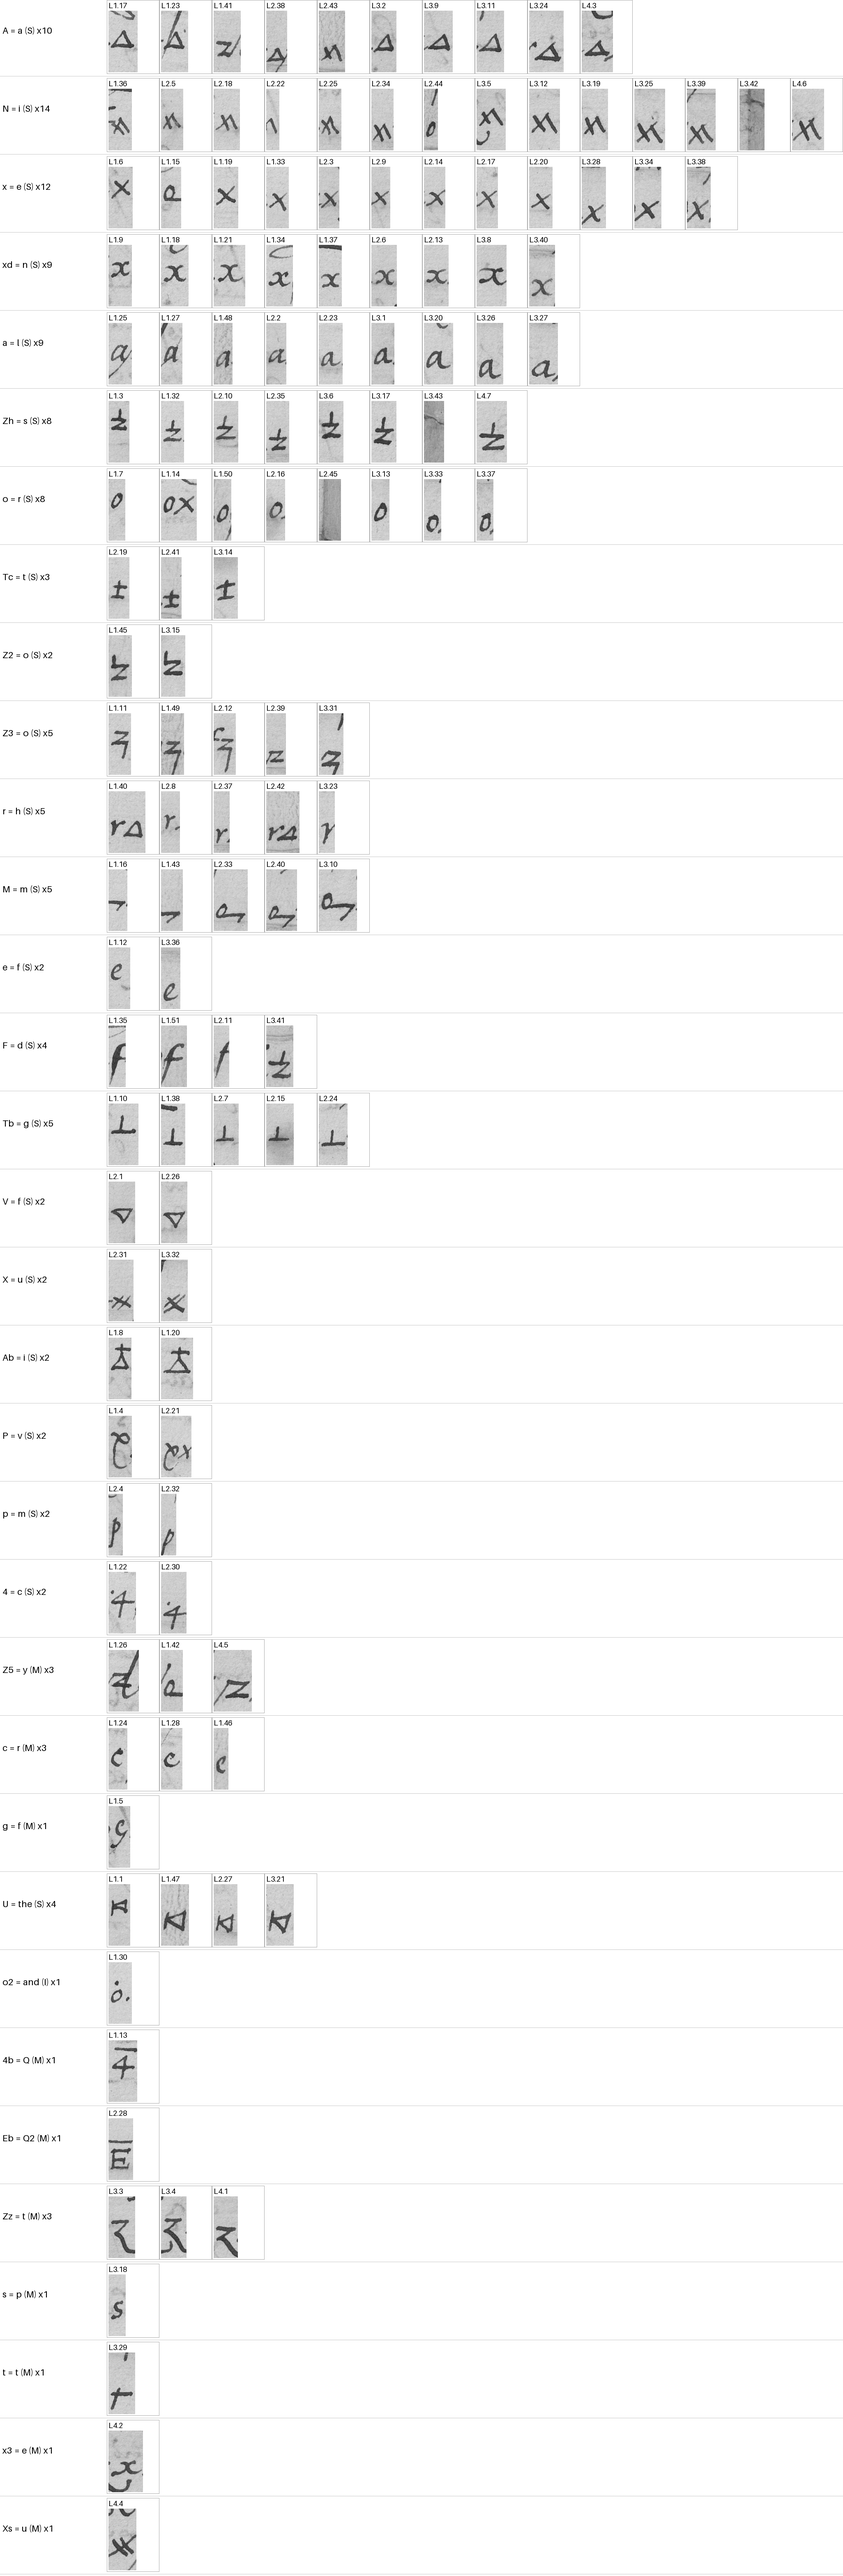
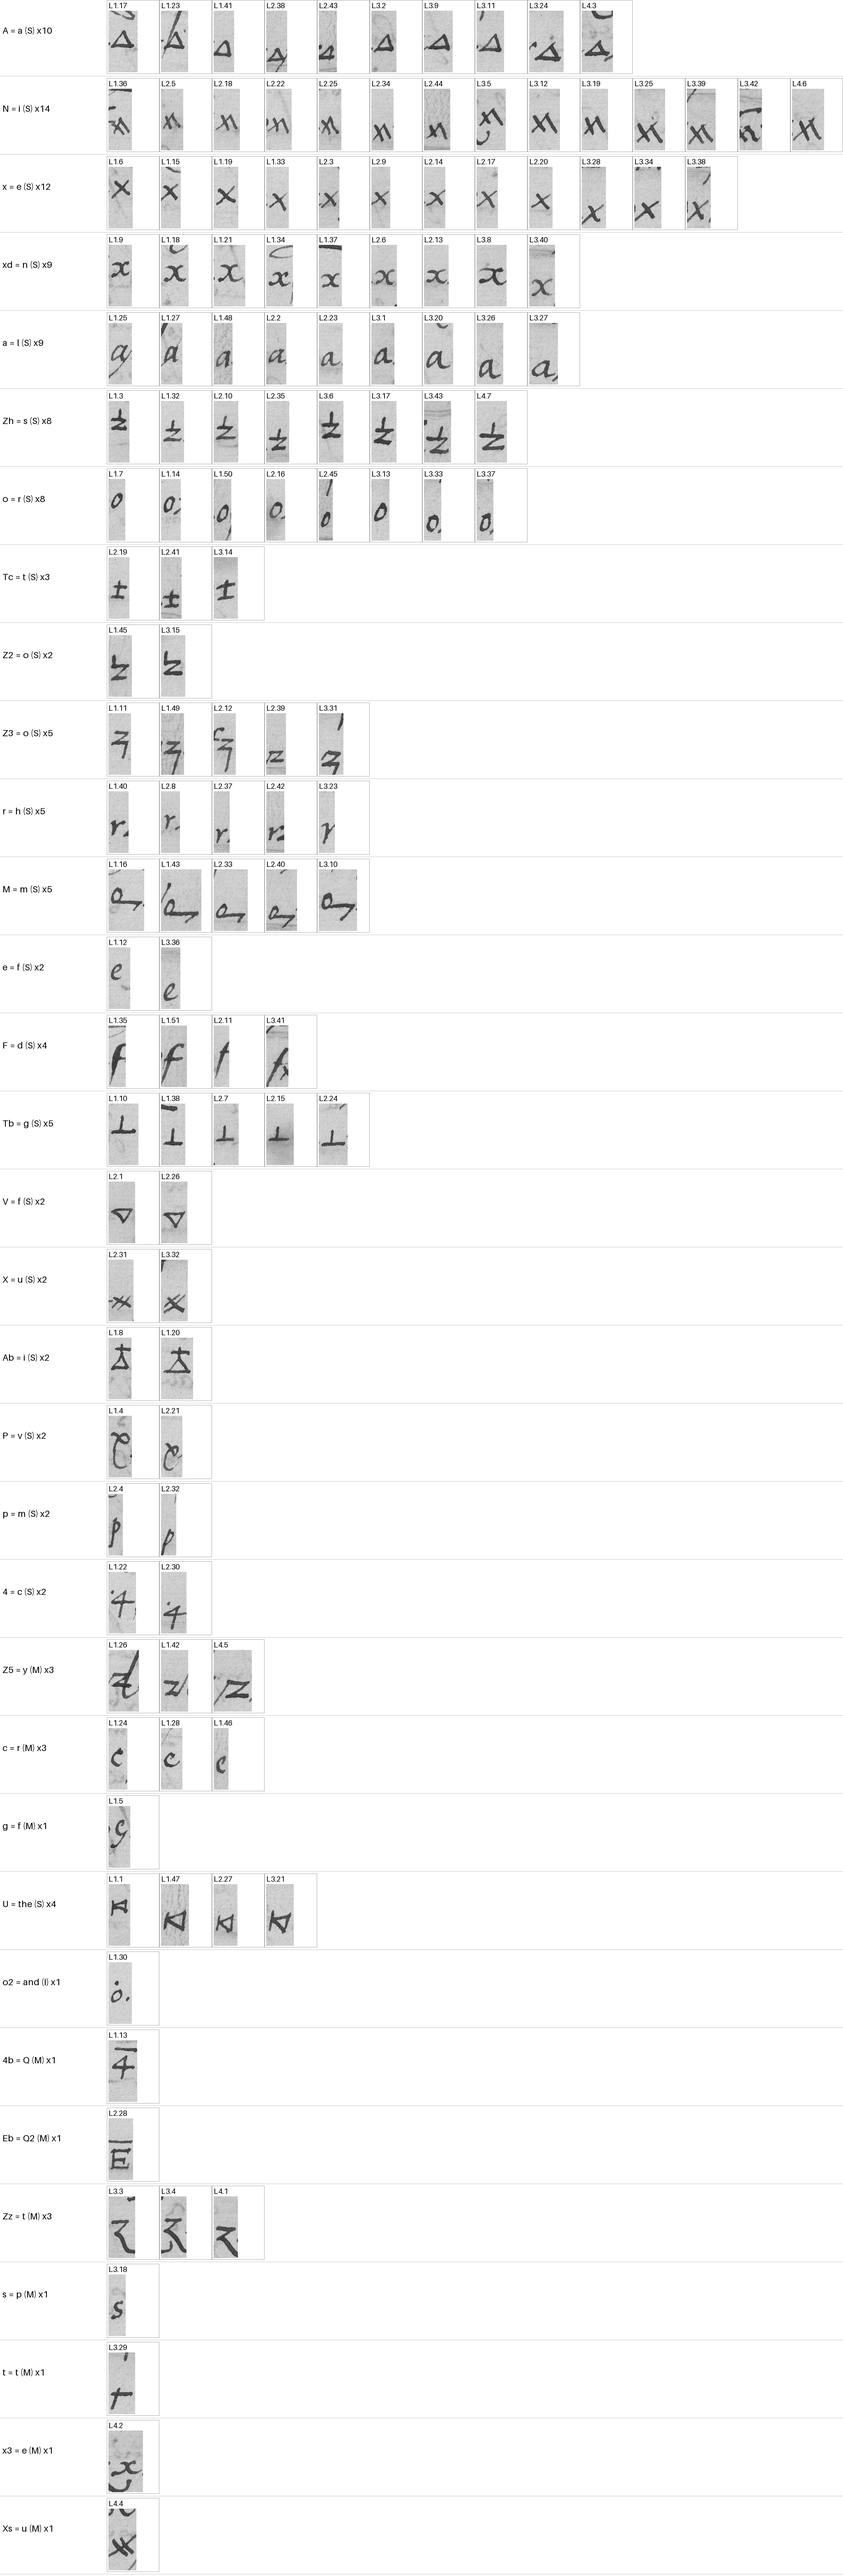
moray-wood-1568: RUN4-MOR refsheet eye anchors (--eye, --m-left), 0/11 flagged boxes misplaced (was 11/102)
Claude-Session: https://claude.ai/code/session_01L8GHwis3zYrxBn48NdJzYo

diff --git a/ciphers/moray-wood-1568/no804/refsheet/align_boxes.py b/ciphers/moray-wood-1568/no804/refsheet/align_boxes.py
@@ -7,7 +7,13 @@ Validated against the 32 position->segment pairs GAPS5 fixed by eye against its 
 (images/pairs_sheets_2026-10-02.py, which numbers glyphs per line without the '|' rows); the agreement count is printed and written to the output header.
 The anchors are hard constraints by default (penalty 5.0 per miss); --free runs without them and is the validation
 figure (26/32 on 4 Oct 2026: the free DP drifts by one or two segments late in L1 and L3, where GAPS5 found merged cuts).
-usage: python3 align_boxes.py [--free] > boxes.tsv"""
+--eye (RUN4-MOR, 4 Oct 2026) adds the eye anchors read on the full-size P4 (sha1 a4e84895...) at the line ends and at the
+boxes RUN3-MOR flagged (no804/refsheet/eyecheck.tsv); they override GAPS5's where both exist (two cases, both boxes RUN3-MOR
+flagged wrong/clipped: GAPS5 'L1.14' 14 -- seg 13 is o+x merged, seg 14 the loop of M; GAPS5 'L1.38' (40,'L') -- seg 38 is r+A
+merged, seg 39 the slashed z (Z5), seg 40 the whole M), and two eye-set boxes replace the DP box
+where the GAPS5 segmentation cut a glyph in two (L2.21 P / L2.22 N). L3 segments 39-44 are fold shadow and stay unmatched.
+--m-left PX (default 0) widens every M box leftward by PX, for the loop of M when it sits in the preceding segment.
+usage: python3 align_boxes.py [--free] [--eye] [--m-left PX] > boxes.tsv"""
 import json, statistics, os
 D = os.path.join(os.path.dirname(os.path.abspath(__file__)), '..', '..')
 G = json.load(open(f'{D}/images/pairs_glyph_boxes_2026-10-02.json'))
@@ -17,9 +23,17 @@ ANCH = {'L1.5': 5, 'L1.8': 8, 'L1.10': 10, 'L1.11': 11, 'L1.14': 14, 'L1.17': 17
         'L1.25': 25, 'L1.27': 27, 'L1.30': 32, 'L1.31': 33, 'L1.34': 36, 'L1.38': (40, 'L'), 'L1.40': 41, 'L1.41': 42,
         'L1.44': 45, 'L2.30': 29, 'L3.3': 3, 'L3.4': 4, 'L3.7': 7, 'L3.14': 15, 'L3.25': 26, 'L3.27': 28, 'L3.28': 29,
         'L3.30': 31, 'L3.31': 32, 'L3.33': 34, 'L3.35': 36, 'L4.1': 1, 'L4.4': 4}
+# RUN4-MOR eye anchors (glyph numbering as ANCH), read on the full-size P4 image 4 Oct 2026
+EYE = {'L1.13': (13, 'L'), 'L1.14': (13, 'R'), 'L1.15': 14, 'L1.36': (38, 'L'), 'L1.37': (38, 'R'), 'L1.38': 39, 'L1.39': 40,
+       'L2.38': 37, 'L2.39': 38, 'L2.40': (39, 'L'), 'L2.41': (39, 'R'), 'L2.42': 40, 'L2.43': 41,
+       'L3.36': (37, 'L'), 'L3.37': (37, 'R'), 'L3.38': 38}
+EYEBOX = {'L2.21': (3212, 3278), 'L2.22': (3268, 3350)}  # x0, x1 on P4; y from the line band
 INF = 1e9
 import sys
 HARD = '--free' not in sys.argv
+GAPS5 = dict(ANCH)
+if '--eye' in sys.argv: ANCH = {**ANCH, **EYE}
+MLEFT = int(sys.argv[sys.argv.index('--m-left') + 1]) if '--m-left' in sys.argv else 0
 def align(L, gidx):
     toks = [(r[1], r[2]) for r in rows if r[0] == L]
     segs = G[L]['glyphs']; n, m = len(toks), len(segs)
@@ -67,14 +81,17 @@ for L in ['L1', 'L2', 'L3', 'L4']:
     for r in rows:  # GAPS5 numbers glyphs per line ignoring '|' rows; ciphertext.tsv's pos counts them
         if r[0] == L and r[2] != '|': g += 1; gidx[f'{L}.{r[1]}'] = f'{L}.{g}'
     for (pos, sign), sg, box, k in align(L, gidx):
+        if '--eye' in sys.argv and gidx[f'{L}.{pos}'] in EYEBOX: box = [EYEBOX[gidx[f'{L}.{pos}']][0], box[1], EYEBOX[gidx[f'{L}.{pos}']][1], box[3]]; k = 'eye'
+        if sign == 'M' and MLEFT: box = [box[0] - MLEFT] + list(box[1:])
         res.append((f'{L}.{pos}', sign, sg, box, k))
 ok = tot = 0; bad = []
 for p, s, sg, box, k in res:
-    if gidx[p] in ANCH:
-        tot += 1; a = ANCH[gidx[p]]; got = sg[0] if len(sg) == 1 else sg
+    if gidx[p] in GAPS5:
+        tot += 1; a = GAPS5[gidx[p]]; got = sg[0] if len(sg) == 1 else sg
         if got == a or (isinstance(a, int) and a in sg): ok += 1
         else: bad.append(f'{p}:{got}!={a}')
-print(f'# align_boxes.py (RUN1-MOR 4 Oct 2026){" anchors as constraints" if HARD else " --free (anchors not used)"}: {len(res)} positions; GAPS5 eye anchors agree {ok}/{tot}' + (f'; disagree {bad}' if bad else ''))
+eok = sum(1 for p, s, sg, box, k in res if gidx[p] in EYE and (sg[0] if len(sg) == 1 else sg) in (EYE[gidx[p]], [EYE[gidx[p]]]) or (gidx[p] in EYE and isinstance(EYE[gidx[p]], int) and EYE[gidx[p]] in sg))
+print(f'# align_boxes.py (RUN1-MOR 4 Oct 2026){" anchors as constraints" if HARD else " --free (anchors not used)"}: {len(res)} positions; GAPS5 eye anchors agree {ok}/{tot}' + (f'; disagree {bad}' if bad else '') + (f'; --eye (RUN4-MOR) anchors met {eok}/{len(EYE)}, eye boxes {len(EYEBOX)}' if '--eye' in sys.argv else '') + (f'; --m-left {MLEFT}' if MLEFT else ''))
 print('position\tglyph_no\tsign\tsegments\tmode\tx0\ty0\tx1\ty1')
 for p, s, sg, box, k in res:
     print(p, gidx[p], s, ','.join(str(x) if isinstance(x, int) else f'{x[0]}{x[1]}' for x in sg), k, *box, sep='\t')

diff --git a/ciphers/moray-wood-1568/NOTES.md b/ciphers/moray-wood-1568/NOTES.md
@@ -365,3 +365,27 @@ Result first: **nothing changed; align_boxes.py, boxes.tsv and the sheets are as
 - The fix needs the full-size P4 image (IMG_R8345_I38545_P4.jpg) twice: to read the L2.40-45 / L3.38-43 / L1.15 / L2.22 anchors by eye, and to re-cut the crops for build_refsheet.py. It is not on disk: RUN1-MOR kept it in its own scratchpad (sha1 in images/manifest.json), the folder holds only the 200x278 thumbnail TH_..._P4.jpg, and wave 4 of LANE-RUN3 barred DECODE. Anchors were not guessed from segment geometry (that would be an I-grade repair of the box map, rule 4).
 - Geometry hint for the next worker (from images/pairs_glyph_boxes_2026-10-02.json only, no image): L2 has 42 segments for 43 glyphs, with a 155 px gap before its last segment (x 5063->5218); L3 has 44 segments for 38 glyphs and a 298 px gap after segment 38 (x 4904->5202), i.e. the six L3 segments past x 5202 are where RUN3-MOR saw the fold/shadow -- the GAPS5 segmentation likely took shadow for ink there, so the L3 line-end anchors will probably sit at or before segment 38, with segments 39-44 skipped.
 - Next: one session with one DECODE browser login, fetch P4 to scratch, add the anchors to ANCH and a left margin for M (the loop sits in the preceding box at L1.16, L1.43), re-run align_boxes.py > boxes.tsv, re-cut tiles, build_refsheet.py, eye-check the 11 flagged boxes; ~$0.5-1.
+
+## RUN4-MOR refsheet anchor fix (4 Oct 2026, 10:49-10:5x UTC container clock)
+Result first: **misplaced boxes 11/102 (10.8%) before, 0 of the same 11 after; the sheet is fit for labelling (<= 10%).** One DECODE browser login (succeeded), R8345 P4 full-size fetched to the scratchpad, sha1 a4e848953a3afca88f015e0e8efe1395aea137af = the 2 Oct 2026 fetch (images/manifest.json `full_size_fetched_2026-10-04_run4`; image not committed).
+- Anchors read by eye on the full-size P4 (annotated segment crops, no subagent): L2 seg 39 is r+A merged, 40 N, 41 o, seg 42 page edge (unmatched); L3 seg 37 is F+N merged, 38 Zh, segs 39-44 fold shadow (unmatched, as RUN3-MOR2's hint said); L1 seg 13 is o+x merged, 14-15 the loop and hook of M, seg 38 r+A merged, 39 the slashed z (Z5), 40 the whole M; L2.21 P / L2.22 N straddle the GAPS5 cut at x 3311, so they get eye-set boxes (x 3212-3278, 3268-3350).
+- Two GAPS5 anchors overridden, both at boxes RUN3-MOR had independently flagged: 'L1.14' 14 (box showed M's loop, not x) and 'L1.38' (40,L) (box showed half of M, not Z5). Under --eye the GAPS5 agreement line reads 30/32 by design; the RUN3-MOR "L1.41 labelled A shows a slashed z" note is the same off-by-one, now resolved (L1.41 = triangle).
+- Options, no private copy: `no804/refsheet/align_boxes.py --eye` (16 eye anchors, 2 eye boxes) and `--m-left PX` (M boxes widened leftward; default 0 and not used: with the anchors, every M box holds the whole loop+hook). Default output byte-identical to before (checked by diff). boxes.tsv rebuilt with `--eye`; tiles re-cut with tools/glyph_atlas.py crop (--margin 6 --scale 1, 134 crops); build_refsheet.py re-run.
+- Re-check (no804/refsheet/eyecheck.tsv, RUN4-MOR block): the 11 flagged + 4 wide + L1.14/L1.40/L1.41; exactly these 18 boxes moved (git diff of boxes.tsv), so no unchecked box changed. 0 wrong, 0 clipped; L2.43 A keeps its left corner trimmed by the 2:1 midpoint cut but is recognisable.
+- Ranking power check moved with it: leave-one-out top-1 on 117 S tokens 0.487 -> 0.513 vs label-shuffle p99 0.128 (nearest_mi.tsv). No reading, no regrade, no key edit (rule 4 grades unchanged).
+
+## Remaining gaps (RUN4-MOR, 4 Oct 2026; restates READ2-RELABEL's section with gap 1's next step updated)
+Read so far: 117 S, 16 M, 1 I of 134 glyphs (Aymeloglu's key applied to the transcription, image-checked here by GAPS3-GAPS5; decode_key.py --check exit 0); this repository's own re-derived reading is 0 of 134
+- M and I tokens of the postscript (Zz x3, c x2, Z5 x2, g, s, t, x3, Xs, 4b, Eb, o2) - blocker: open-codes; images on disk and read twice blind, judge GAPS6 FAIL cannot decide, lexical fit GAPS7 moved 0, period-key comparisons GAPS8/10/11 and R4930 GAPS12 fixed 0 values; only a second text in this key settles them; reference sheet built (RUN1-MOR) and fit for labelling at 0/11 flagged boxes misplaced (RUN4-MOR, 4 Oct 2026); next: label Wood's no.804 leaf against no804/refsheet/refsheet_classes.png and run the pre-registered crib test no804/no804_crib.py once the leaf is on disk (ASKS row 103), ~$1
+- Wood's original of Bain ii no.804 (TNA SP 52/15), the second sample of this glyph family - blocker: waiting-on ASKS row 103; the leaf is reachable only through Gale SPO or the ASKS 73 TNA page-check batch
+- the five unreproduced Donibristle cipher papers (NRAS217) - blocker: waiting-on ASKS row 103; the NRAS enquiry draft in outreach/nras-moray-donibristle-cipher.md goes out only after gate 7
+
+## Escalation (RUN4-MOR, 4 Oct 2026; restates READ2-RELABEL's ladder)
+- [x] siblings: done by the peer repositories; R2989, R8344, R8347/R8348 compared, the reverse key test on R2989 done (GAPS9); Wood's no.804 original still unseen
+- [x] clear-pages: Aymeloglu read the clear Scots body of f.213 and the f.214v endorsement; no interlinear or contemporary decipherment on DECODE
+- [retired] known-keys: DECODE period-key shape comparison retired after three runs (GAPS8, GAPS10, GAPS11) with 0 values fixed each; KEY-CROSSMATCH 45 keys, 0 matches
+- [x] print: Bain CSP Scotland ii full text with a control, Tomokiyo, HMC Sixth Report, Catalogue of Additions 1882-87; open-web and blog check 2 Oct 2026, nothing located
+- [x] key-rebuild: done by Aymeloglu (held-value re-annealing, key-shuffle z=17.0, controls 1 of 4 read); no Scots corpus in tools/data
+- [x] image-check: one primed pass (GAPS3), two blind passes plus reconciliation (GAPS4), native-resolution pair read (GAPS5), all 2 Oct 2026
+- [ ] retry: edit key.tsv after the no.804 crib test and rerun tools/decode_key.py --check, regrading the 16 M and 1 I tokens per rule 4
+Verdict: keep going: 1 internal gaps; cheapest next: the pre-registered no.804 crib test (no804/no804_crib.py) labelled against refsheet_classes.png (fit 4 Oct 2026, RUN4-MOR: 0/11 flagged boxes misplaced, was 11/102), ~$1, runnable only once the SP 52/15 leaf of Bain ii no.804 is on disk (ASKS row 103); nothing else in-session is untried
